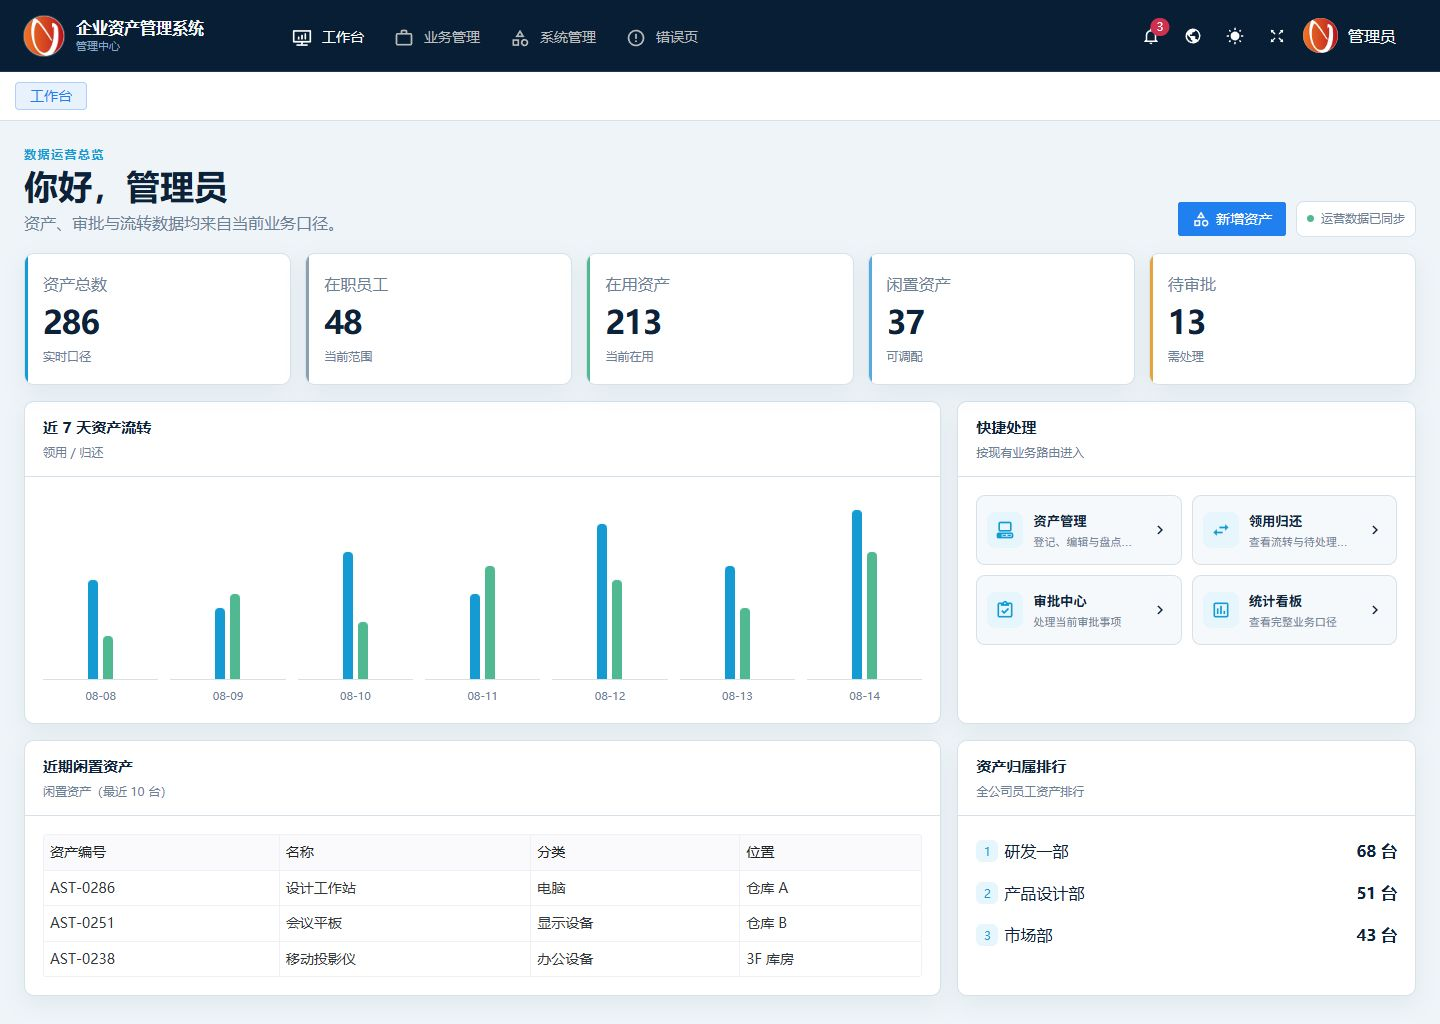
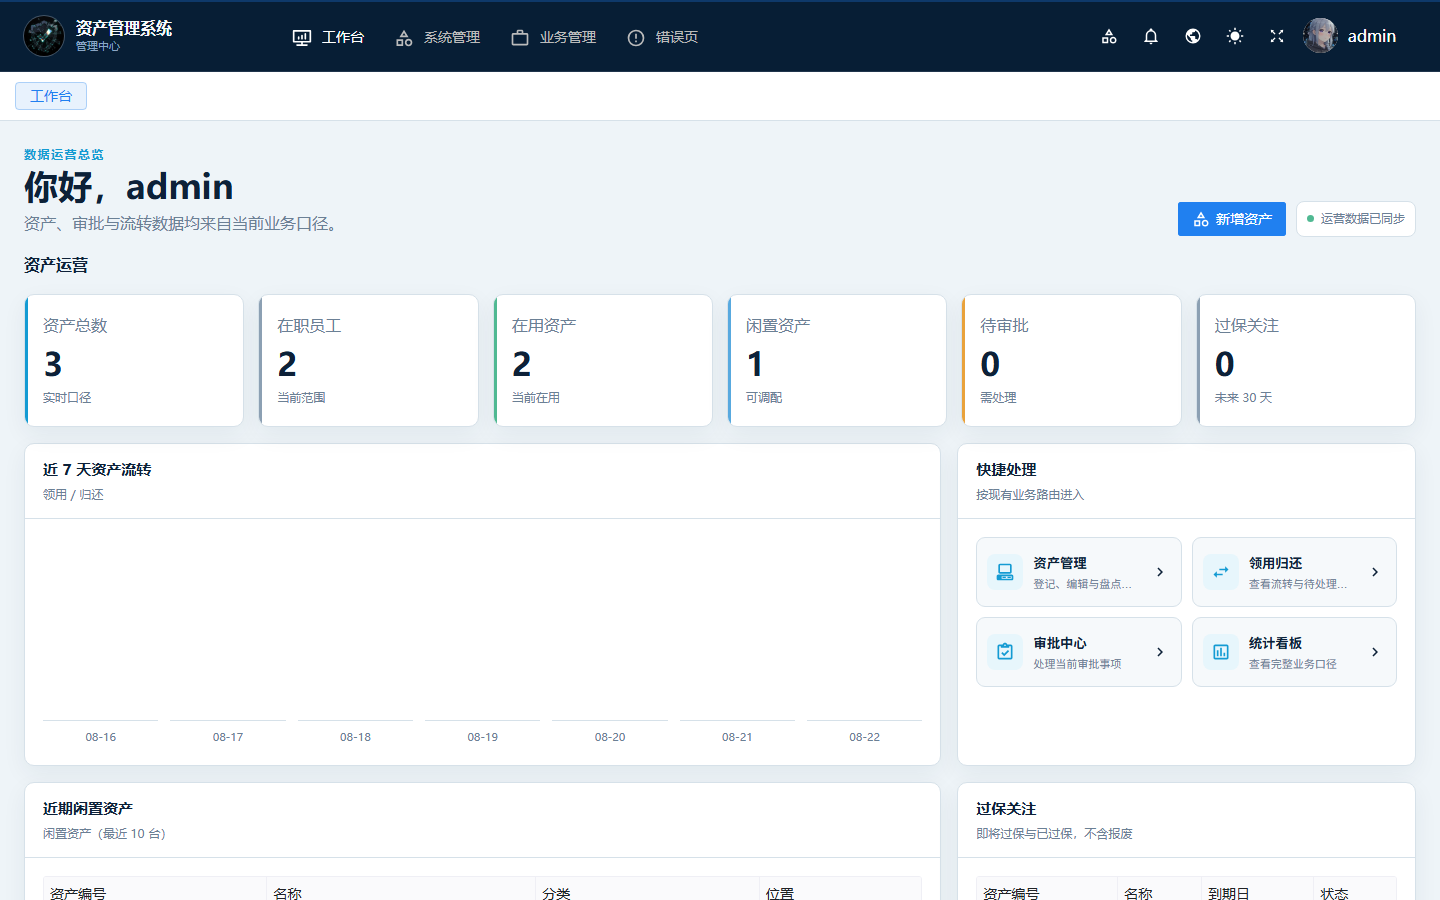
Add product screenshots and README gallery.

diff --git a/README.md b/README.md
@@ -1,55 +1,112 @@
 <p align="center">
-  <img alt="资产管理系统" width="200" src="deploy/sample-picture/logo.svg">
+  <img alt="资产管理系统" width="96" src="web/public/resource/company-logo.jpg">
 </p>
 
 <h1 align="center">资产管理系统</h1>
 
-员工与资产台账后台。FastAPI + Vue3 + Naive UI：RBAC、动态路由、JWT；员工、资产、领用/归还/审批、操作日志、导出与看板。依赖组件见 `NOTICE`。
+<p align="center">
+  员工与资产台账后台：领用、归还、调拨、报修、盘点、审批、知识库、安全中心。
+</p>
 
-### 特性
-- **技术栈**：Python 3.11 + FastAPI 高性能异步框架，Vue3 + Vite 前端。
-- **动态路由**：后端动态路由，结合 RBAC 权限模型，提供精细的菜单路由控制。
-- **JWT 鉴权**：使用 JSON Web Token 进行身份验证和授权。
-- **细粒度权限控制**：按钮和接口级别的权限控制，不同角色（超级管理员 / 部门主管 / 普通员工）所见内容不同。
-- **操作日志**：增删改查与登录行为全记录，可追溯。
-- **AI 助手**：可接入兼容 OpenAI 协议的大模型（需自行配置 Key，仓库内不含密钥）。
+<p align="center">
+  <img alt="Python 3.11" src="https://img.shields.io/badge/Python-3.11-3776AB?logo=python&logoColor=white">
+  <img alt="FastAPI" src="https://img.shields.io/badge/FastAPI-0.111-009688?logo=fastapi&logoColor=white">
+  <img alt="Vue 3" src="https://img.shields.io/badge/Vue-3-42b883?logo=vuedotjs&logoColor=white">
+  <img alt="Naive UI" src="https://img.shields.io/badge/Naive%20UI-2-36ad6a">
+  <img alt="License MIT" src="https://img.shields.io/badge/License-MIT-yellow">
+</p>
 
-### 二次验证
+<p align="center">
+  <a href="./README-en.md">English</a>
+  ·
+  <a href="./README-部署与使用教程.md">部署教程</a>
+  ·
+  <a href="./LICENSE">MIT License</a>
+</p>
 
-登录时**不会**根据用户名提前探测是否开了 TOTP。未绑定账号一次就能进；已绑定账号在滑块+密码通过后才会出现 6 位框。
+## 界面预览
 
-空库第一个 `admin` 是超级管理员，必须先在个人中心按向导绑定验证器（Google / Microsoft Authenticator 等），再重新登录后才能进后台。仓库和演示脚本**不会**预置已绑定密钥。不要用 SQL 去关二次验证。
+登录（滑块校验）：
 
-导出、删用户、改角色、封禁等默认还要动态码或密码；建员工/资产不用。完整首次步骤见 `README-部署与使用教程.md` 第七节。
+<p align="center">
+  <img src="deploy/sample-picture/screenshots/login.png" alt="登录" width="720">
+</p>
 
-### 到期换密
+管理端工作台：
 
-安全中心可以设置「密码最长天数」或「全员截止日期」，**默认关闭**。打开后，过期账号只能先改密（沿用已有 `must_change_password`）。
+<p align="center">
+  <img src="deploy/sample-picture/screenshots/workbench.png" alt="管理端工作台" width="900">
+</p>
 
-### AI 配置
+员工 / 主管工作台：
 
-在 AI 助手里选 DeepSeek / OpenAI 新地址 / OpenAI 旧兼容，一般只粘贴自己的 Key。默认模型是 `deepseek-v4-flash`。未填 Key 不能外呼。助手是只读笼子：不能跑 SQL、Shell、读盘，也不会把密钥送给模型。
+<p align="center">
+  <img src="deploy/sample-picture/screenshots/work-portal.png" alt="员工工作台" width="900">
+</p>
 
-### 开源假数据
+| 资产管理 | 员工管理 |
+| --- | --- |
+| <img src="deploy/sample-picture/screenshots/assets.png" alt="资产管理"> | <img src="deploy/sample-picture/screenshots/employees.png" alt="员工管理"> |
+| 统计看板 | 知识库 |
+| <img src="deploy/sample-picture/screenshots/dashboard.png" alt="统计看板"> | <img src="deploy/sample-picture/screenshots/kb.png" alt="知识库"> |
+| 调拨 | 盘点 |
+| <img src="deploy/sample-picture/screenshots/transfer.png" alt="调拨"> | <img src="deploy/sample-picture/screenshots/inventory.png" alt="盘点"> |
+| AI 助手 | 安全中心 |
+| <img src="deploy/sample-picture/screenshots/ai.png" alt="AI 助手"> | <img src="deploy/sample-picture/screenshots/security.png" alt="安全中心"> |
+| 用户与角色 | 手机扫码 |
+| <img src="deploy/sample-picture/screenshots/users.png" alt="用户管理"> | <img src="deploy/sample-picture/screenshots/scan.png" alt="扫码详情"> |
 
-本地空库可写入张三/李四（`example.com`）：
+截图来自本地演示数据（张三 / 李四 / `example.com`），不含生产环境信息。
+
+## 功能
+
+- **台账**：员工、资产、分类、位置、质保到期提醒
+- **流转**：领用 / 归还、调拨、报修、审批
+- **盘点**：发起盘点、对账、只记录不自动报废
+- **两个入口**：管理后台与员工工作台，按角色看到不同菜单
+- **安全**：登录滑块、TOTP、操作二次验证、安全中心（登录日志 / 封禁 / 证书）
+- **知识库与 AI**：上传说明文档后提问；AI 只读，仓库不含密钥
+- **扫码**：资产二维码，手机打开详情后可报修或调拨
+
+权限模型：超级管理员 / 部门主管 / 普通员工。按钮和接口都按角色控制。
+
+## 快速开始
+
+```bash
+git clone https://github.com/LanSang11/asset-admin.git
+cd asset-admin
+
+python -m venv .venv
+.venv\Scripts\activate
+pip install -r requirements.txt
+python run.py
+```
+
+另开终端构建并预览前端：
+
+```bash
+cd web
+npm install
+npm run dev
+```
+
+浏览器打开 http://127.0.0.1:3100 。完整步骤见 `README-部署与使用教程.md`。
+
+本地空库可写入演示账号（张三 / 李四，`example.com`）：
 
 ```bash
 set DEMO_PASSWORD=你的演示密码
 python deploy/init_oss_demo_data.py --db app.db
 ```
 
-脚本会拒绝现网路径。不要对云端库跑，也不要把 Key 或密码写进仓库。
+不要对生产库跑，也不要把 Key 或密码写进仓库。空库第一个 `admin` 需要先绑定验证器才能进后台。
 
-### 本地部署
-```bash
-docker run -d --restart=always --name=asset-system -p 127.0.0.1:9999:80 asset-system:local
+## 目录
+
 ```
-访问 http://localhost:9999
+app/       FastAPI 后端
+web/       Vue3 前端
+deploy/    部署模板、演示脚本、截图
+```
 
-更完整的步骤见 `README-部署与使用教程.md`。
-
-### 目录结构
-- `web/`：Vue3 前端
-- `app/`：FastAPI 后端
-- `deploy/`：部署模板与脚本
+第三方组件见 `NOTICE`。

diff --git a/README-en.md b/README-en.md
@@ -1,26 +1,46 @@
 <p align="center">
-  <img alt="Asset Management System" width="200" src="deploy/sample-picture/logo.svg">
+  <img alt="Asset Management System" width="96" src="web/public/resource/company-logo.jpg">
 </p>
 
 <h1 align="center">Asset Management System</h1>
 
-English | [简体中文](./README.md)
+<p align="center">
+  <a href="./README.md">简体中文</a>
+  ·
+  <a href="./LICENSE">MIT License</a>
+</p>
 
-Employee and asset ledger admin. FastAPI + Vue3 + Naive UI: RBAC, dynamic routing, JWT; employees, assets, use/return/approval, audit logs, export, and dashboards. Third-party components are listed in `NOTICE`.
+Employee and asset ledger: checkout, return, transfer, repair, inventory, approval, knowledge base, and security center.
 
-### Features
-- **Tech Stack**: Python 3.11 + FastAPI async framework, Vue3 + Vite front-end.
-- **Dynamic Routing**: Backend-driven dynamic routing combined with RBAC.
-- **JWT Authentication**: Identity verification and authorization via JSON Web Tokens.
-- **Granular Permission Control**: Button and API level permissions for Super Admin / Department Manager / Employee.
-- **Operation Logs**: Audit trail of CRUD operations and login events.
-- **AI Assistant**: Optional OpenAI-compatible LLM (bring your own key; no keys in the repo).
+## Screenshots
 
-### Local Deployment
+<p align="center">
+  <img src="deploy/sample-picture/screenshots/login.png" alt="Login" width="720">
+</p>
+
+<p align="center">
+  <img src="deploy/sample-picture/screenshots/workbench.png" alt="Admin workbench" width="900">
+</p>
+
+Screenshots use local demo data (`example.com`). They do not contain production hosts or credentials.
+
+## Features
+
+- Ledger, checkout/return, transfer, repair, inventory, dual portals
+- Slider login, TOTP, step-up verification, security center
+- Knowledge base and optional AI (bring your own key)
+
+## Quick start
+
 ```bash
-docker run -d --restart=always --name=asset-system -p 127.0.0.1:9999:80 asset-system:local
+git clone https://github.com/LanSang11/asset-admin.git
+cd asset-admin
+python -m venv .venv
+pip install -r requirements.txt
+python run.py
 ```
-Visit http://localhost:9999
+
+See `README.md` for the full gallery and `README-部署与使用教程.md` for deployment.
 
 ### Directory
 - `web/`: Vue3 front-end
